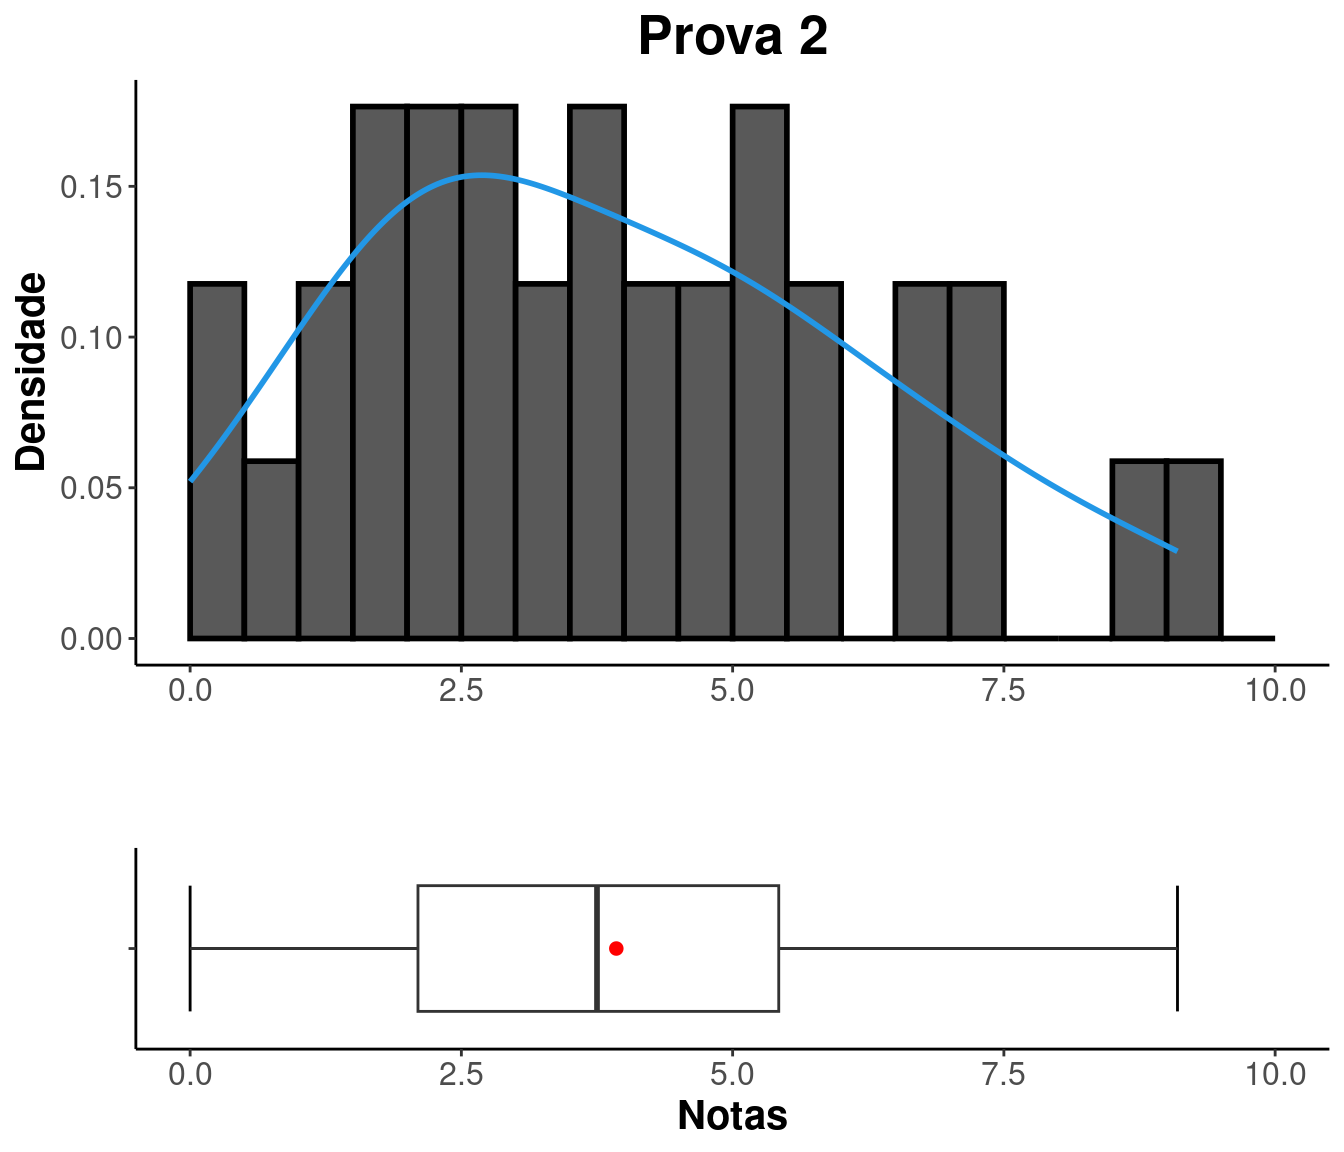
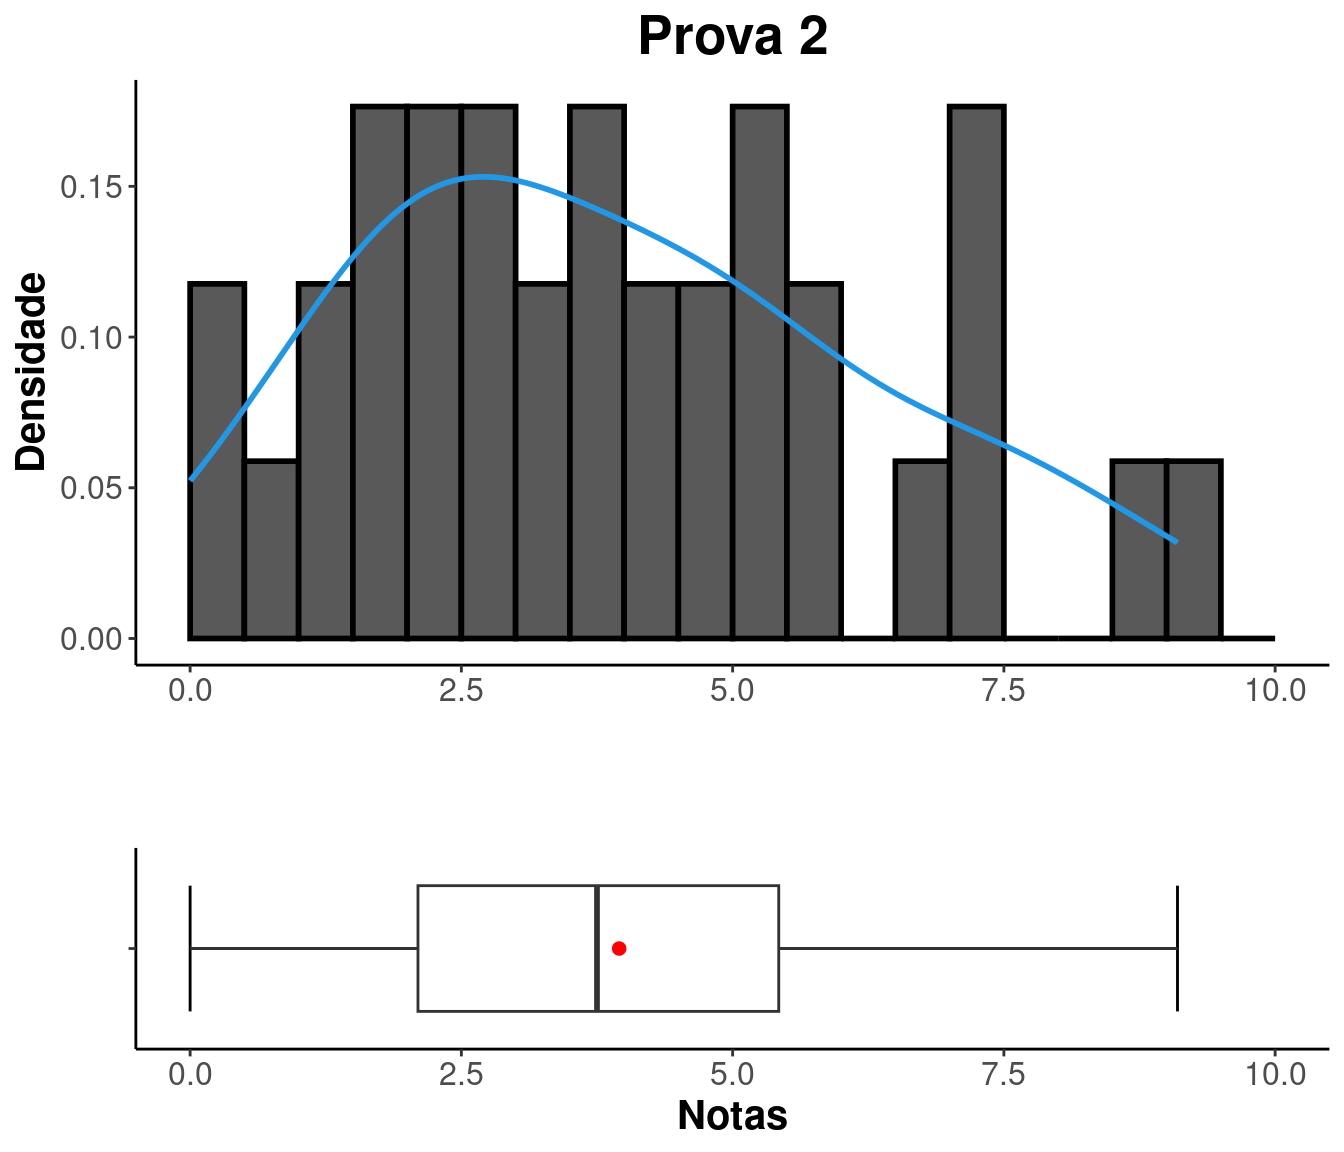
atualiza pagina

diff --git a/notas.html b/notas.html
@@ -299,8 +299,8 @@ $(document).ready(function () {
 <p>Busque sua situação digitando seu GRR na caixa “Search”.</p>
 <p><br />
 </p>
-<div class="datatables html-widget html-fill-item-overflow-hidden html-fill-item" id="htmlwidget-de7c15460e3cb6e3a683" style="width:100%;height:auto;"></div>
-<script type="application/json" data-for="htmlwidget-de7c15460e3cb6e3a683">{"x":{"filter":"none","vertical":false,"editable":{"target":"cell","disable":{"columns":null},"numeric":[1,2,3,4],"date":[]},"data":[["GRR20182666","GRR20222157","GRR20224231","GRR20222161","GRR20215807","GRR20210361","GRR20173235","GRR20212937","GRR20213825","GRR2022159","GRR20224216","GRR20212891","GRR20220385","GRR20224212","GRR20222151","GRR20224913","GRR20224912","GRR20212978","GRR20222165","GRR20202359","GRR20224220","GRR20220395","GRR20207140","GRR20222164","GRR20224907","GRR20133223","GRR20205597","GRR20222059","GRR20200165","GRR20223472","GRR20223951","GRR20220370","GRR20203430","GRR20222142","GRR20215605","GRR20212968","GRR20221911","GRR20220367"],[7.9,6.8,6,5.9,null,4.6,5.7,6.6,7,5.8,5.5,6,null,7.3,6.7,7.6,6.9,8.199999999999999,6.4,null,3.4,3.7,null,8.300000000000001,5.4,4.5,6.4,6.2,5.6,7,6,5.5,3,5,8.5,7.7,3.6,5.6],[9.1,2.7,5.5,3.6,null,1.65,4,4.7,3.2,2.8,4.1,5.9,null,1.4,2.6,3.9,7,8.6,3.2,null,0.6,4.2,null,6.6,7.1,2,2.1,4.9,5.2,2.5,1.8,5.8,2.1,1.5,7.5,5.2,0,0.5],[8.199999999999999,2.3,5.5,4.5,null,null,null,4.5,4.5,6,4.5,null,null,2,5,4.5,7.5,7,6,null,3,6.5,null,6,5,null,3,5,5,2,1.5,5.6,2.5,2.2,5,6.5,null,2.6],[6.3,2.95,4.25,3.5,null,1.5625,2.425,3.95,3.675,3.65,3.525,2.975,null,2.675,3.575,4,5.35,5.95,3.9,null,1.75,3.6,null,5.225,4.375,1.625,2.875,4.025,3.95,2.875,2.325,4.225,1.9,2.175,5.25,4.85,0.9,2.175]],"container":"<table class=\"cell-border stripe\">\n  <thead>\n    <tr>\n      <th>GRR<\/th>\n      <th>P1<\/th>\n      <th>P2<\/th>\n      <th>P3<\/th>\n      <th>media_sem_remotas<\/th>\n    <\/tr>\n  <\/thead>\n<\/table>","options":{"columnDefs":[{"className":"dt-right","targets":[1,2,3,4]}],"order":[],"autoWidth":false,"orderClasses":false}},"evals":[],"jsHooks":[]}</script>
+<div class="datatables html-widget html-fill-item-overflow-hidden html-fill-item" id="htmlwidget-ab14e4acb1910a6e8815" style="width:100%;height:auto;"></div>
+<script type="application/json" data-for="htmlwidget-ab14e4acb1910a6e8815">{"x":{"filter":"none","vertical":false,"editable":{"target":"cell","disable":{"columns":null},"numeric":[1,2,3,4],"date":[]},"data":[["GRR20182666","GRR20222157","GRR20224231","GRR20222161","GRR20215807","GRR20210361","GRR20173235","GRR20212937","GRR20213825","GRR2022159","GRR20224216","GRR20212891","GRR20220385","GRR20224212","GRR20222151","GRR20224913","GRR20224912","GRR20212978","GRR20222165","GRR20202359","GRR20224220","GRR20220395","GRR20207140","GRR20222164","GRR20224907","GRR20133223","GRR20205597","GRR20222059","GRR20200165","GRR20223472","GRR20223951","GRR20220370","GRR20203430","GRR20222142","GRR20215605","GRR20212968","GRR20221911","GRR20220367"],[7.9,6.8,6,5.9,null,4.6,5.7,6.6,7,5.8,5.5,6,null,7.3,6.7,7.6,6.9,8.199999999999999,6.4,null,3.4,3.7,null,8.300000000000001,5.4,4.5,6.4,6.2,5.6,7,6,5.5,3,5,8.5,7.7,3.6,5.6],[9.1,2.7,5.5,3.6,null,1.65,4,4.7,3.2,2.8,4.1,5.9,null,1.4,2.6,3.9,7.5,8.6,3.2,null,0.6,4.2,null,7,7.1,2,2.1,4.9,5.2,2.5,1.8,5.8,2.1,1.5,7.5,5.2,0,0.5],[8.199999999999999,2.3,5.5,5,null,null,null,4.5,4.5,6,4.5,null,null,2,5,4.5,7.5,7,6,null,3,6.5,null,6,5,null,3,5,5,2,1.5,5.6,2.5,2.2,5,6.5,null,2.6],[6.3,2.95,4.25,3.625,0,1.5625,2.425,3.95,3.675,3.65,3.525,2.975,0,2.675,3.575,4,5.475,5.95,3.9,0,1.75,3.6,0,5.325,4.375,1.625,2.875,4.025,3.95,2.875,2.325,4.225,1.9,2.175,5.25,4.85,0.9,2.175]],"container":"<table class=\"cell-border stripe\">\n  <thead>\n    <tr>\n      <th>GRR<\/th>\n      <th>P1<\/th>\n      <th>P2<\/th>\n      <th>P3<\/th>\n      <th>media_sem_remotas<\/th>\n    <\/tr>\n  <\/thead>\n<\/table>","options":{"columnDefs":[{"className":"dt-right","targets":[1,2,3,4]}],"order":[],"autoWidth":false,"orderClasses":false}},"evals":[],"jsHooks":[]}</script>
 <hr />
 </div>
 <div id="análise-das-notas"
@@ -370,7 +370,7 @@ class="section level1 tabset tabset-fade tabset-pills">
 <tr class="odd">
 <td align="center">0</td>
 <td align="center">2.1</td>
-<td align="center">3.928</td>
+<td align="center">3.954</td>
 <td align="center">3.75</td>
 <td align="center">5.425</td>
 <td align="center">9.1</td>
@@ -407,7 +407,7 @@ class="section level1 tabset tabset-fade tabset-pills">
 <tr class="odd">
 <td align="center">1.5</td>
 <td align="center">3</td>
-<td align="center">4.6</td>
+<td align="center">4.617</td>
 <td align="center">5</td>
 <td align="center">6</td>
 <td align="center">8.2</td>
